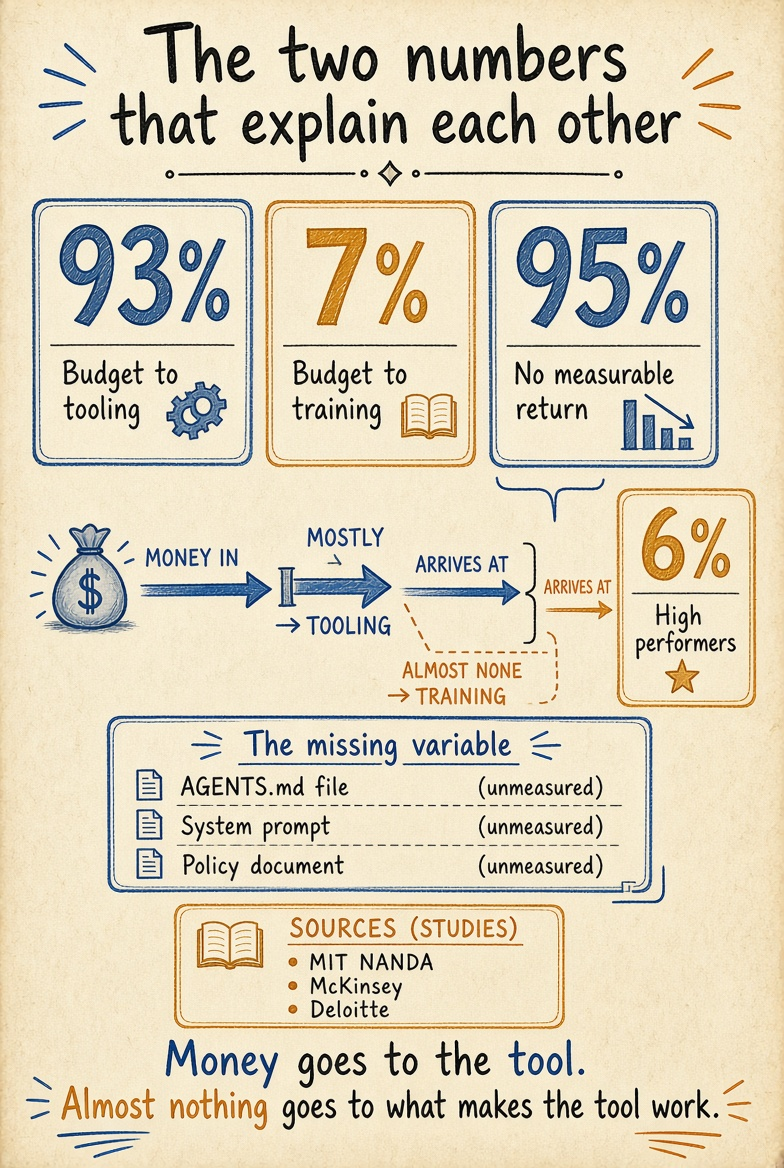
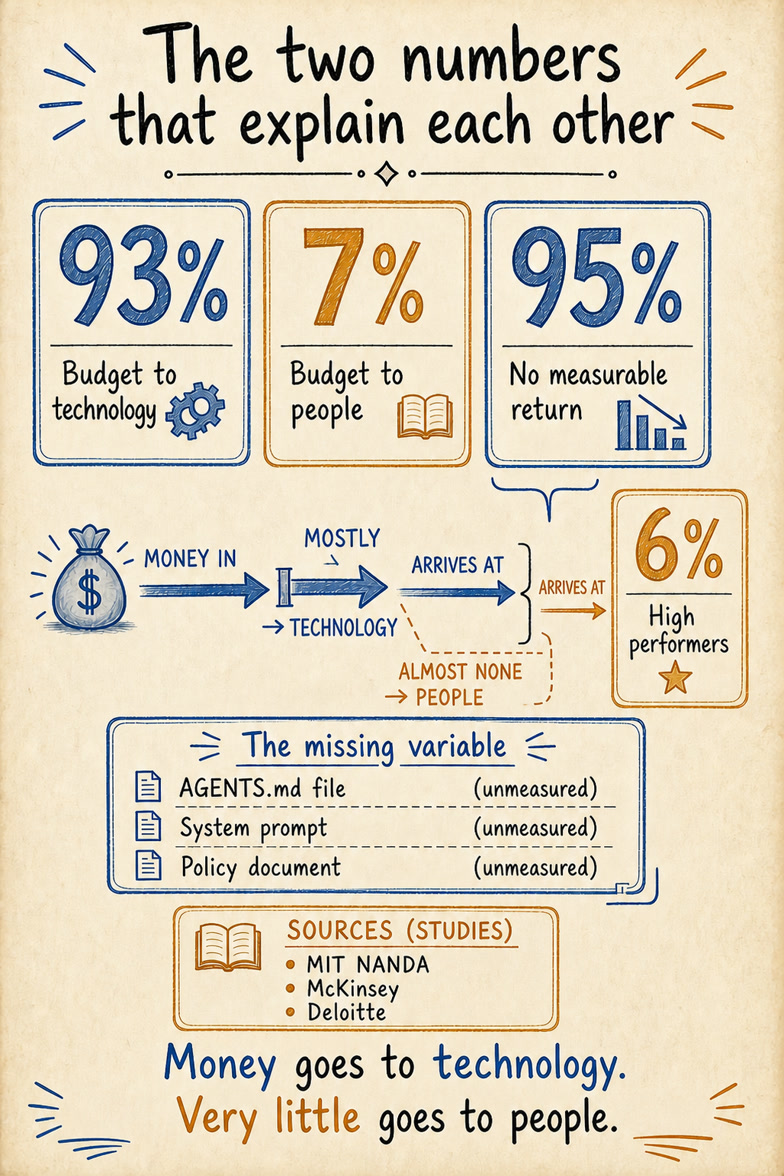
Sync from private repo (671245fe)

diff --git a/posts/ai-adoption-measurement-gap.md b/posts/ai-adoption-measurement-gap.md
@@ -6,23 +6,23 @@ tags: [ai-governance, research]
 publish_date: 2026-08-26
 cover_image: ai-adoption-measurement-gap.jpg
 cover_image_prompt: |
-  A full explainer infographic in the style of a hand-drawn, sketchy line-art poster on aged cream paper. Title at the top in hand-lettered text: "The two numbers that explain each other". Below it, three large bordered stat tiles side by side, each with a big hand-drawn number and a short label beneath: "93%" labelled "Budget to tooling", "7%" labelled "Budget to training", "95%" labelled "No measurable return". A fourth, smaller stat tile beside or below them: "6%" labelled "High performers". A simple hand-drawn arrow diagram connecting the budget tiles to the outcome tiles, showing money flowing mostly into tooling and almost none into training, arriving at "no return" for most organisations and "high performer" for a few. A boxed callout titled "The missing variable" listing three short items: "AGENTS.md file", "System prompt", "Policy document", each marked as unmeasured. A small sources callout box listing "MIT NANDA", "McKinsey", "Deloitte" as the three studies. A closing hand-lettered line at the bottom: "Money goes to the tool. Almost nothing goes to what makes the tool work." Warm cream and off-white background, muted slate blue and warm amber accent colours, hand-drawn technical-sketch aesthetic. No people, no photographic elements.
+  A full explainer infographic in the style of a hand-drawn, sketchy line-art poster on aged cream paper. Title at the top in hand-lettered text: "The two numbers that explain each other". Below it, three large bordered stat tiles side by side, each with a big hand-drawn number and a short label beneath: "93%" labelled "Budget to technology", "7%" labelled "Budget to people", "95%" labelled "No measurable return". A fourth, smaller stat tile beside or below them: "6%" labelled "High performers". A simple hand-drawn arrow diagram connecting the budget tiles to the outcome tiles, showing money flowing mostly into technology and very little into people, arriving at "no return" for most organisations and "high performer" for a few. A boxed callout titled "The missing variable" listing three short items: "AGENTS.md file", "System prompt", "Policy document", each marked as unmeasured. A small sources callout box listing "MIT NANDA", "McKinsey", "Deloitte" as the three studies. A closing hand-lettered line at the bottom: "Money goes to technology. Very little goes to people." Warm cream and off-white background, muted slate blue and warm amber accent colours, hand-drawn technical-sketch aesthetic. No people, no photographic elements.
 cover_post: |
-  Ninety-three per cent of enterprise AI budgets go to tooling. Seven per cent goes to the training and process work that makes the tooling usable. Ninety-five per cent of organisations report no measurable return on their AI investment. Two separate studies, measuring two separate things, and the ratio does most of the arguing by itself.
+  Ninety-three per cent of enterprise AI budgets go to technology. Seven per cent goes to people. Ninety-five per cent of organisations report no measurable return on their AI investment. Two separate studies, measuring two separate things, and the ratio does most of the arguing by itself.
 
-  McKinsey's own survey puts the share of real high performers at six per cent. Three studies, three methodologies, converging on the same shape: almost all the money goes to the tool, almost none goes to the conditions that make it work.
+  McKinsey's own survey puts the share of real high performers at six per cent. Three studies, three methodologies, converging on the same shape: almost all the money goes to technology, and very little goes to people.
 
   Here is what none of the three studies measured: the quality of the instructions and governing documents that direct the AI in the first place.
 
   New piece on the number nobody is tracking.
 stop_slop: 44/50
 toulmin: Track A 6/6, Track B 5/6
-notes: "Source: #584, findings/so-novel-findings-registry.md F40, research-notes/so-f40-d1-headline-stats-fetch-synthesis.md. Three D1-cleared statistics used: MIT NANDA (95% no measurable return, The GenAI Divide, July 2025), McKinsey (6% high performers, State of AI in 2025), Deloitte (93/7 tooling-versus-enablement split, Tech Trends 2026). The previously circulating 94% figure (D1 fail, derived from McKinsey 6%) deliberately not used. No causal or common-methodology claim made between the three studies, each cited for what it actually measures. Reviewed 23 August 2026 against meta/artifacts/voice-principles-blogger.md: cut 'and each is worth reading on its own terms', a 'worth [verb]-ing' significance-announcing phrase, per the broadened no-significance-announcing-phrases rule. No em dashes, double dashes, or other violations found. Given an explainer-infographic cover_image_prompt per meta/artifacts/cover-image-style-guide.md's opt-in 'Alternate style: full explainer infographic' section (a deliberate departure from the default minimalist convention, not the default for other posts). This is the first attempt at a reproducible prompt for that track; the one prior accepted instance was produced by accident with no recorded process. Briefly converted to format: article on 23 August 2026, then reverted the same day per Director correction: this is a native LinkedIn post with an infographic cover image, not an article. The body's closing paragraph, a summary line appended when the post was mistakenly framed as an article, was removed to match."
+notes: "Source: #584, findings/so-novel-findings-registry.md F40, research-notes/so-f40-d1-headline-stats-fetch-synthesis.md. Three D1-cleared statistics used: MIT NANDA (95% no measurable return, The GenAI Divide, July 2025), McKinsey (6% high performers, State of AI in 2025), Deloitte (93/7 technology-versus-people split, Tech Trends 2026). The previously circulating 94% figure (D1 fail, derived from McKinsey 6%) deliberately not used. No causal or common-methodology claim made between the three studies, each cited for what it actually measures. Reviewed 23 August 2026 against meta/artifacts/voice-principles-blogger.md: cut 'and each is worth reading on its own terms', a 'worth [verb]-ing' significance-announcing phrase, per the broadened no-significance-announcing-phrases rule. Corrected on 29 August 2026 so the post, cover copy, prompt, and image use Deloitte's supported technology-versus-people wording rather than narrowing it to tooling-versus-training. No em dashes, double dashes, or other violations found. Given an explainer-infographic cover_image_prompt per meta/artifacts/cover-image-style-guide.md's opt-in 'Alternate style: full explainer infographic' section (a deliberate departure from the default minimalist convention, not the default for other posts). This is the first attempt at a reproducible prompt for that track; the one prior accepted instance was produced by accident with no recorded process. Briefly converted to format: article on 23 August 2026, then reverted the same day per Director correction: this is a native LinkedIn post with an infographic cover image, not an article. The body's closing paragraph, a summary line appended when the post was mistakenly framed as an article, was removed to match."
 linkedin_url:
 ---
 
-Ninety-three per cent of enterprise AI budgets go to tooling. Seven per cent goes to the training and process work that makes the tooling usable (Deloitte, Tech Trends 2026). Ninety-five per cent of organisations report no measurable return from their AI investment (MIT NANDA, The GenAI Divide, July 2025). Those are two separate studies, measuring two separate things, and I am not claiming one caused the other. But put them next to each other and the ratio does most of the arguing by itself.
+Ninety-three per cent of enterprise AI budgets go to technology. Seven per cent goes to people (Deloitte, Tech Trends 2026). Ninety-five per cent of organisations report no measurable return from their AI investment (MIT NANDA, The GenAI Divide, July 2025). Those are two separate studies, measuring two separate things, and I am not claiming one caused the other. But put them next to each other and the ratio does most of the arguing by itself.
 
-McKinsey's own 2025 survey found that roughly six per cent of organisations qualify as what it calls high performers, seeing outsized value from AI. Three different studies, three different methodologies, three different samples. What they converge on, without measuring the same thing at all, is that most organisations are spending almost everything on the tool and almost nothing on the conditions that would let the tool actually work, and most of them are seeing almost nothing for it.
+McKinsey's own 2025 survey found that roughly six per cent of organisations qualify as what it calls high performers, seeing outsized value from AI. Three different studies, three different methodologies, three different samples. What they place side by side, without measuring the same thing at all, is substantial spending on technology, limited spending on people, and a small group reporting outsized value.
 
 Here is what none of the three studies measured: the quality of the instructions and governing documents that direct the AI systems in the first place. Adoption frameworks measure whether AI is used, how deeply, and what it produces. None of the mainstream measurement literature treats the structural quality of the instruction itself, the AGENTS.md file, the system prompt, the policy document, as a variable in whether adoption succeeds. It is the one input closest to fully within an organisation's control, and it is the one nobody is measuring.

diff --git a/posts/agile-manifesto-fifth-value.md b/posts/agile-manifesto-fifth-value.md
@@ -7,6 +7,7 @@ publish_date: 2026-08-17
 stop_slop: 45/50
 toulmin: Track A 5/6, Track B 5/6
 notes: "Gate application needed before publishing. Cockburn window closed (two weeks elapsed April 2026). If 1st degree connection with Cockburn: tag when posting. Otherwise post untagged. Revised 16 August 2026 directly from the Director's own feedback in posts/post-agile-manifesto.comments.md (two comments, 06:57 and 07:02 UTC), which is how that feedback reached SO, superseding the prior revision's reconstruction from SO's paraphrase. First comment, quoted for record: 'One could argue it was never about the documentation to start with, and it was always about the collective understanding that goes with it. The challenge has always been getting people on the same page and providing the artifacts to support future reasoning. That still holds, and has gotten much much more difficult.' Folded in directly: documentation's role was always to support collective reasoning, not to be cheap; that challenge has gotten much harder, not easier. Second comment, quoted for record: 'I must add that I do not subscribe to SSD. I still agree with the Agile Manifesto principles. I do not believe in huge upfront spec definitions for which SSD has that connotations. Use Toulmin. I think though that the post should not be a statement, but rather a question.' Three changes made in response: (1) names specification-driven development directly and states its core claim, precision in the upfront spec produces certainty, then explains why this piece's argument differs, rather than only disclaiming it; corrected 16 August 2026 after Director clarification that what was said directly to SO was that the piece can engage with SSD if needed, not that it should avoid naming it; (2) tightened the claim/grounds/rebuttal structure per 'use Toulmin', the SSD framing is treated as an anticipated rebuttal and addressed directly rather than left implicit; (3) restructured the piece, including the title, so the fifth value is posed as an open question rather than asserted as a settled conclusion. D1 closed 16 August 2026 (d1-0110): Director supplied an .mht snapshot of agilemanifesto.org/principles.html directly. It confirms the wording exactly, now quoted verbatim rather than paraphrased, and confirms the manifesto's own text lists all twelve principles unnumbered, no numerals or ordered-list markup anywhere on the page, settling the #843 open question in favour of ChatGPT's and Qwen's reports over DeepSeek's and Gemini's claim of invariant native numbering. The face-to-face-conversation principle is sixth in the page's own paragraph order, so 'commonly numbered six' remains the accurate phrasing, a confirmed secondary convention, not the manifesto's own label. See references/d1-register.json, d1-0110. Cockburn's argument referenced in general terms (cooperative, communication-centred activity; tacit knowledge a document cannot substitute for) with no specific book title, edition, or year, since the panel split on whether 'The Cooperative Game' subtitle applies to the first edition. Corrected 16 August 2026 after a third comment on posts/post-agile-manifesto.comments.md, an SO D1 status update posted at 08:22 UTC: 'osmotic communication' is NOT used or attributed to Cockburn in this draft. That comment tightened the earlier #843 guidance specifically for this post given the 17 August publish date: the term is held at the highest D1 priority in the programme right now, the five-model panel could not agree which of Cockburn's two books it originates in, and the defensible path given the deadline is to make the argument on Principle 6 and Cockburn's general thesis without naming the term at all, rather than publish it with even a loose attribution the panel couldn't settle. The body now describes the phenomenon (ambient, informal absorption of shared context through proximity) in plain language instead of naming Cockburn's specific term for it. No Highsmith, Fowler, or Dixon material used (question 4 leads, uncorroborated). No external source used for the AI-and-shared-understanding claim (question 5, panel did not converge in any direction); the claim that cheap documentation has not eased, and has likely worsened, the shared-understanding problem is presented as the Director's own view per both feedback comments, not attributed to any study. Revised 16 August 2026 per two further Director notes: (1) added the discoverability and staleness problem, comprehensive documentation nobody can find and nobody keeps current, as the more basic and more common failure, alongside the understanding-gap point already made; (2) the closing previously read 'the real question is not what a fifth value should say', which presupposes the reader already knows a fifth value has been proposed somewhere. This post has never been published and the idea has not been discussed anywhere else, so that phrasing assumed prior context that does not exist. Rewrote the closing to introduce the fifth-value proposal for the first time within the piece itself before questioning it. Corrected the opening per Director instruction: 'I always believed this, just never articulated it' is the accurate framing, not 'I had the tradeoff wrong.' The earlier draft implied a corrected prior belief; the true position is an always-held but previously unarticulated one. Reworded accordingly. Cut 'commonly numbered six' per Director instruction; the piece no longer names or numbers the principle at all, referring to it throughout as 'one of the manifesto's twelve principles' and 'that principle'. The d1-0110 finding (wording confirmed, manifesto's own text unnumbered) remains valid and in the register; it simply is not surfaced in the published piece anymore. Full voice-principles-blogger.md and stop-slop pass, 16 August 2026, per Director instruction: cut 'has written at length about' (throat-clearing) for the direct 'describes'; found and fixed a near-duplicate sentence, paragraph one and paragraph three both said, in almost identical structure, that an artefact does not guarantee the reader understands it. Paragraph three's version rewritten ('Precision on the page is not the same as being understood by the people who have to live with what it produces') to make a distinct point instead of echoing paragraph one. No em dashes, no double dashes, no 'worth naming/noting' pattern, no consensus-appeal phrasing found elsewhere in the piece. Score raised to 45/50 to reflect the tightening. Cut the entire closing paragraph down to its final question per Director instruction; 'verified behaviour over working software' and the fifth-value framing no longer appear anywhere in the body. Retitled from 'Does the Agile Manifesto need a fifth value, or was that always the wrong kind of answer?' to 'Is the Agile Manifesto still right today?' so the title matches what the piece now actually delivers, and so it bookends the closing line rather than promising a thread (the fifth value) the body no longer resolves. Per Director instruction, gave the opening line 'The Agile Manifesto was right in 2001.' its own paragraph, matching the single-line closing paragraph, so the piece opens and closes on matching standalone statements."
+linkedin_url: https://www.linkedin.com/posts/christo-zietsman_the-agile-manifesto-was-right-in-2001-comprehensive-activity-7495004742755082240-B5zN
 ---
 
 The Agile Manifesto was right in 2001.

diff --git a/posts/ai-use-cases-found-not-prescribed.md b/posts/ai-use-cases-found-not-prescribed.md
@@ -1,0 +1,24 @@
+---
+title: "The best AI use cases are found, not prescribed"
+slug: ai-use-cases-found-not-prescribed
+platform: linkedin
+tags: [ai-governance, organisational-design, personal-practice]
+publish_date: 2026-08-31
+cover_image_prompt: |
+  A full explainer infographic in the style of a colourful, cheerful, hand-drawn line-art poster on light cream paper. Title at the top in friendly hand-lettered text: "The best AI use cases are found, not prescribed". A branching flow begins inside a large boundary labelled "Existing authorised access": "Explore" branches into several small experiment cards, then converges through "Report what helped" into a short list labelled "Useful cases that spread". Alongside it, a rigid checklist labelled "Prescribed too early" ends in question marks. Three compact callout boxes read "Explore inside the boundary", "Let practice reveal value", and "Govern access, not guesses". Add a small source box reading "Parallel: Eric von Hippel, user innovation". A closing hand-lettered line at the bottom: "Create safe room to discover what works." Bright coral, turquoise, sunny yellow, leaf green, sky blue, and warm orange accents, with dark legible lettering, rounded boxes, lively arrows, and friendly icons. Happy, welcoming, and energetic; not institutional, clinical, or ominous. No people, no photographic elements, no logos, and no watermark.
+stop_slop: 44/50
+toulmin: Track A 6/6, Track B 6/6
+notes: "Split from post-ai-access-resistance-not-fear.md on 2 August 2026 per Director instruction, after that post was identified as conflating the safeguard-versus-control resistance diagnostic with this separate exploration-over-prescription argument. Retains the original paragraphs on not prescribing a fixed AI use-case list and the von Hippel user-innovation parallel (per SO clearance recorded against #567/#573/#576 that von Hippel's broader standing is not in serious doubt, referenced as a general parallel only, not as validated for this exact scenario) and on Smile as an existing answer to the natural objection. New opening and closing paragraphs written to stand alone, since the original text opened and closed mid-argument, referencing the companion post's material directly. Smile and CyberSentriq named per the existing Director clearance from #567's thread, applicable here as it was in the parent post."
+linkedin_url:
+cover_image: ai-use-cases-found-not-prescribed.jpg
+---
+
+Ask me for the definitive list of approved AI use cases for every department and I will disappoint you. I do not have one. That is not me dragging my feet. It is the correct response to a question nobody can honestly answer yet, including me.
+
+The truth is I do not yet know the best use cases across every department, and neither does anyone else. Prescribing a fixed list right now would not be cautious. It would be premature, pretending we have an answer we do not have. Giving people room to explore, try things against their own work, and report back what actually helped is not a consolation prize for not having decided yet. Given genuine uncertainty, it is the correct response to it. Successful use cases spread from person to person inside a department far faster and more honestly than anything I could hand down.
+
+This happens to rhyme with a real research tradition. Eric von Hippel's work on user innovation found that the most useful advances in a field often come from users experimenting at the edges of their own problems and reporting back what worked, not from the centre prescribing the answer in advance. I did not need the citation to reach the same conclusion, but it is a good sign when practice and research land in the same place.
+
+The honest answer to "doesn't letting everyone experiment without a prescribed list multiply the risk" already exists, and it is not a policy document. Smile, the AI governance gateway we are building at CyberSentriq, grants no new access at all. It gates everything through our existing identity system, so a person only ever gets AI-mediated help with systems and data they were already authorised to touch before Smile existed. Exploration happens inside that boundary, not outside it, which is what lets it stay wide open without becoming a security question.
+
+Encouraging exploration is not the same as abdicating governance. It is choosing where the governance actually needs to sit, not in a list of approved use cases nobody could write accurately yet, but in the access layer underneath, where it holds regardless of what anyone tries.

diff --git a/posts/sun-tzu-wardley-ai-era-strategy.md b/posts/sun-tzu-wardley-ai-era-strategy.md
@@ -1,0 +1,22 @@
+---
+title: "Does 2,500-year-old strategy actually apply to an AI-saturated market?"
+slug: sun-tzu-wardley-ai-era-strategy
+platform: linkedin
+tags: [product-strategy, go-to-market]
+publish_date: 2026-09-04
+cover_image_prompt: |
+  A full explainer infographic in the style of a colourful, cheerful, hand-drawn line-art poster on light cream paper. Title at the top in friendly hand-lettered text: "Does 2,500-year-old strategy actually apply to an AI-saturated market?" Two overlapping lenses sit above a market map. The first lens is labelled "Wardley: map evolution" over an axis from "Genesis" to "Utility". The second is labelled "Sun Tzu: think about position" over a simple competitor-facing field. Three compact callout boxes read "Capability edges narrow", "Position can outlast a temporary edge", and "Competitor-facing lens". A caveat box reads "Lenses, not validation methods". A closing hand-lettered line at the bottom: "Map where capability sits, then think clearly about position." Bright coral, turquoise, sunny yellow, leaf green, sky blue, and warm orange accents, with dark legible lettering, rounded boxes, lively arrows, and friendly icons. Happy, welcoming, and energetic; not institutional, clinical, or ominous. No people, no photographic elements, no logos, and no watermark.
+stop_slop: 42/50
+toulmin: Track A 5/6, Track B 6/6
+notes: "Source: #593, research-notes/so-synthesis-557-wardley-mapping-sun-tzu-business-strategy-28july2026.md, SO decision at #570. Presented in general hedged form without deep citation, per the issue's guidance; stronger sourced version (Wardley's own writings, Moon's book) gated on D1 priority 2 in working/so-d1-priorities-for-blog-content-29july2026.md. Sun Tzu's doctrine explicitly scoped to lawful competitor-facing positioning only, not licence for behaviour toward customers, employees, or regulators, per the SO decision. Distinct from the already-published wardley-was-right.md, which applies Wardley's specification-driven-development thinking at software-engineering scale, not business strategy; the same thinker's name appears in both, worth spacing apart in the schedule."
+linkedin_url:
+cover_image: sun-tzu-wardley-ai-era-strategy.png
+---
+
+Two very different traditions keep showing up when I think about competing in a market where AI has compressed the advantage everyone used to rely on. One is two and a half thousand years old. The other is barely two decades old.
+
+Wardley Mapping situates every component of a business, a capability, a tool, a process, on an explicit axis from genesis to commodity: how novel or how standardised it has become. The AI-era version of that question is not new, it is the same question technology has always asked, applied to a market moving faster than most maps can be redrawn. The useful discipline is the axis itself: knowing where a given capability sits between "nobody has this yet" and "everybody has this and it is a utility" changes what you should actually be doing with it.
+
+Sun Tzu's classical doctrine, applied to competitors specifically, is about information advantage, positioning before confrontation, and winning the position rather than the fight. In a market where capability differences between AI tools narrow by the month, position, who understands the actual problem, who has the trust, who got there first with the right scope, matters more than a temporary technical edge that a competitor closes in a quarter.
+
+Both are lenses: ways of diagnosing where a capability sits and how to think about position, not a new authority replacing the reasoning already in place. Old wisdom meeting a new problem is a genuinely interesting question. Whether it holds up rests on doing the comparison honestly rather than reaching for whichever ancient quote sounds good, and that is the standard I am holding this to.

diff --git a/posts/handoff-not-finished-until-recorded.md b/posts/handoff-not-finished-until-recorded.md
@@ -1,0 +1,22 @@
+---
+title: "A handoff isn't finished when you send it"
+slug: handoff-not-finished-until-recorded
+platform: linkedin
+tags: [organisational-design, agentic-development]
+publish_date: 2026-09-02
+cover_image_prompt: |
+  A full explainer infographic in the style of a colourful, cheerful, hand-drawn line-art poster on light cream paper. Title at the top in friendly hand-lettered text: "A handoff isn't finished when you send it". A side-by-side comparison shows "Broadcast" as a single arrow from "Send" into empty space, and "Handoff" as a lively four-step loop labelled "Send", "Acknowledge", "Repeat back", and "Accept". Three compact callout boxes read "Sent is not received", "Record understanding", and "Flag ambiguity before acceptance". A closing hand-lettered line at the bottom: "Done means both sides recorded the transfer." Bright coral, turquoise, sunny yellow, leaf green, sky blue, and warm orange accents, with dark legible lettering, rounded boxes, lively arrows, and friendly icons. Happy, welcoming, and energetic; not institutional, clinical, or ominous. No people, no photographic elements, no logos, and no watermark.
+stop_slop: 44/50
+toulmin: Track A 6/6, Track B 5/6
+notes: "Source: #585, findings/so-novel-findings-registry.md F20 (handoff quality as accuracy, follow-up latency, and bidirectional negotiation bandwidth). Structural observation, no external citation used or needed per the issue's own guidance."
+linkedin_url:
+cover_image: handoff-not-finished-until-recorded.jpg
+---
+
+You have sent an email assuming it was read. You have delegated a task assuming it was picked up. You have told someone something important in a hallway conversation, certain it landed, only to find out weeks later that it did not. None of this is really about email or hallways. It is about a mistake we make constantly: treating a handoff as complete the moment it is sent.
+
+A handoff is not a one-way act. It is not finished when the sending party has said their part. It is finished when the receiving party has acknowledged what they received, and can say back what it was. Until that happens, you have a broadcast, not a handoff, and the two look identical from the sender's side. That is exactly what makes the failure invisible. Nobody notices a broadcast has failed until the thing that should have moved does not.
+
+This is easy to see in ordinary work and easy to miss in systems built to move fast. When a task, a decision, or a piece of governance passes from one person to another, or from one AI agent to another, the accountability for what happens next should only begin once the receiving side has confirmed the transfer and flagged anything unclear before accepting it. A system that only checks whether something was sent, and never checks whether it was received and understood, has a structural blind spot that will eventually cost it exactly when the stakes are highest.
+
+The fix is not more communication. It is a different definition of done. A handoff is complete when both sides have recorded it, not when one side has finished their part and moved on.

diff --git a/posts/nova-awards-disruptor-award.md b/posts/nova-awards-disruptor-award.md
@@ -21,7 +21,7 @@ cover_post: |
 stop_slop: 43/50
 toulmin: Track A 5/6, Track B 4/6
 notes: "Source: nomination email from Kallie Robberts (People & Culture Manager, CyberSentriq), 6 August 2026, quoting Martina Fourie's nomination text in full. Quoted line ('He always pushes boundaries by asking why, why not?') is taken verbatim from that nomination. Mirrors the structure Jean Camargo used in his own Fortress Award post (quoting one line from his nomination, congratulating fellow winners, thanking nominators). Fellow winners named (Amanda Cruz, Eddie Monaghan, Jean Camargo, Duane Meyer) per the public CyberSentriq NOVA Awards announcement post and Jean's own post, both already public. cover_image is the Director's actual award certificate, extracted from the same nomination email and saved to pipeline/blog/static/nova-awards-disruptor-award.png; it is a real photo, not a generated image, so no cover_image_prompt field is set. format: article used solely to attach the cover_image per the template convention; cover_post and body are near-identical since the piece is already short and needed no separate teaser. Per Director instruction, the CPTO-approval requirement for CyberSentriq-referencing content was removed from posts/_template.md; this post carries no approval field as a result."
-linkedin_url:
+linkedin_url: https://www.linkedin.com/posts/christo-zietsman_cybersentriq-novaawards-disruptor-activity-7495367130373279744-dc26
 ---
 
 Honoured, and genuinely humbled, to have received the Disruptor Award at CyberSentriq's NOVA Awards this quarter.

diff --git a/posts/prohairesis-hegemonikon-human-on-the-loop.md b/posts/prohairesis-hegemonikon-human-on-the-loop.md
@@ -7,7 +7,7 @@ publish_date: 2026-08-19
 stop_slop: 43/50
 toulmin: Track A 5/6, Track B 5/6
 notes: "Source: #590, findings/so-novel-findings-registry.md F6 (Stoic prohairesis applied to prompt/governance design) and F7 (Stoic hegemonikon as governance-layer analogy), one pairing chosen per the issue's guidance rather than all four candidate pairings. Framed explicitly as structural echo, not lineage or prophecy, per the issue's constraint."
-linkedin_url:
+linkedin_url: https://www.linkedin.com/posts/christo-zietsman_the-stoics-split-the-mind-into-faculties-share-7494724939732697088-6Ly1/
 ---
 
 The Stoics split the mind into faculties, and two of them map onto a distinction agentic systems engineering has been quietly rediscovering under new names. Prohairesis is the faculty of choice, the deliberate response to circumstances you did not choose and cannot control. Hegemonikon is the governing faculty, the part that coordinates everything else without performing any of it directly.

diff --git a/posts/aviation-li-2-separation.md b/posts/aviation-li-2-separation.md
@@ -5,7 +5,7 @@ series: "aviation-specification-completeness"
 series_part: 2
 tags: [ai-governance, research]
 publish_date: 2026-07-09
-linkedin_url:
+linkedin_url: https://www.linkedin.com/posts/christo-zietsman_the-aviation-certification-community-has-activity-7480871615862411266-0B0k
 ---
 
 The aviation certification community has been clear that its frameworks break down for AI systems. DO-178C, the standard governing aviation software certification for thirty years, requires bidirectional traceability: every requirement traces forward to a test and backward to a source requirement. A language model's behaviour is statistical rather than deterministic. You cannot trace an inference to a requirement. The framework breaks down.

diff --git a/posts/blog-mental-models.md b/posts/blog-mental-models.md
@@ -4,6 +4,7 @@ slug: "learning-the-map"
 subtitle: "How spatial thinking, competitive gaming, and the right collaborators shaped my approach to software architecture"
 tags: [career, spatial-thinking, collaboration, ai, personal]
 publish_date: 2026-03-08
+linkedin_url: https://www.linkedin.com/posts/christo-zietsman_when-i-was-a-kid-my-family-would-walk-into-activity-7434636869704982529-McGh
 ---
 
 When I was a kid, my family would walk into a big mall and within minutes I'd have a mental map of the place. Not a conscious effort. Just something that happened. I knew where we were, how things connected, and how to get back. I didn't have a word for it at the time. I just assumed everyone's brain worked this way.

diff --git a/posts/agents-md-quality-layer.md b/posts/agents-md-quality-layer.md
@@ -89,4 +89,3 @@ Here is what is missing.
 None of this is a criticism of the file or of `claude init`. The functional layer is exactly what the tool can infer from the repository: architecture, tasks, conventions, commands. The quality layer cannot be inferred. It requires deliberate authorship.
 
 The industry's ten pillars address the functional layer comprehensively. No pillar addresses the quality layer. Survey published guidance from Anthropic, OpenAI, community guides, and practitioner blogs: assessment rubric, quality gate, and internal consistency requirements appear nowhere. Contextual currency appears as a maintenance reminder, not as a structural element the document must carry.
-

diff --git a/posts/eu-ai-act-specification-gap.md b/posts/eu-ai-act-specification-gap.md
@@ -3,7 +3,7 @@ title: "The document that decides your compliance has no quality standard"
 slug: "eu-ai-act-specification-gap"
 tags: [ai-governance, research]
 publish_date: 2026-07-15
-linkedin_url:
+linkedin_url: https://www.linkedin.com/posts/christo-zietsman_the-eu-ai-act-uses-the-intended-purpose-specification-activity-7483045943085522944-DcI7
 ---
 
 The EU AI Act uses the intended purpose specification as the load-bearing document for high-risk classification. If your specification is ambiguous, the classification assessment is ambiguous. If it does not clearly exclude high-risk uses, you cannot self-certify that you have.

diff --git a/posts/threat-modeling-is-not-just-for-enterprise.md b/posts/threat-modeling-is-not-just-for-enterprise.md
@@ -163,4 +163,3 @@ The output of this exercise was not a document. It was a set of changes: Actions
 More usefully, it was a shift in how the system is understood. The public repository is not just "readable." It is a system where an adversary already knows which APIs the pipeline calls, which token names to look for, and which workflow triggers are in play. The threat model makes that explicit in a way that intuition alone does not.
 
 The input to this exercise was a targeted prompt. The output was a documented set of specific improvements, each traceable to a finding. For a personal project, that is a proportionate exchange.
-
